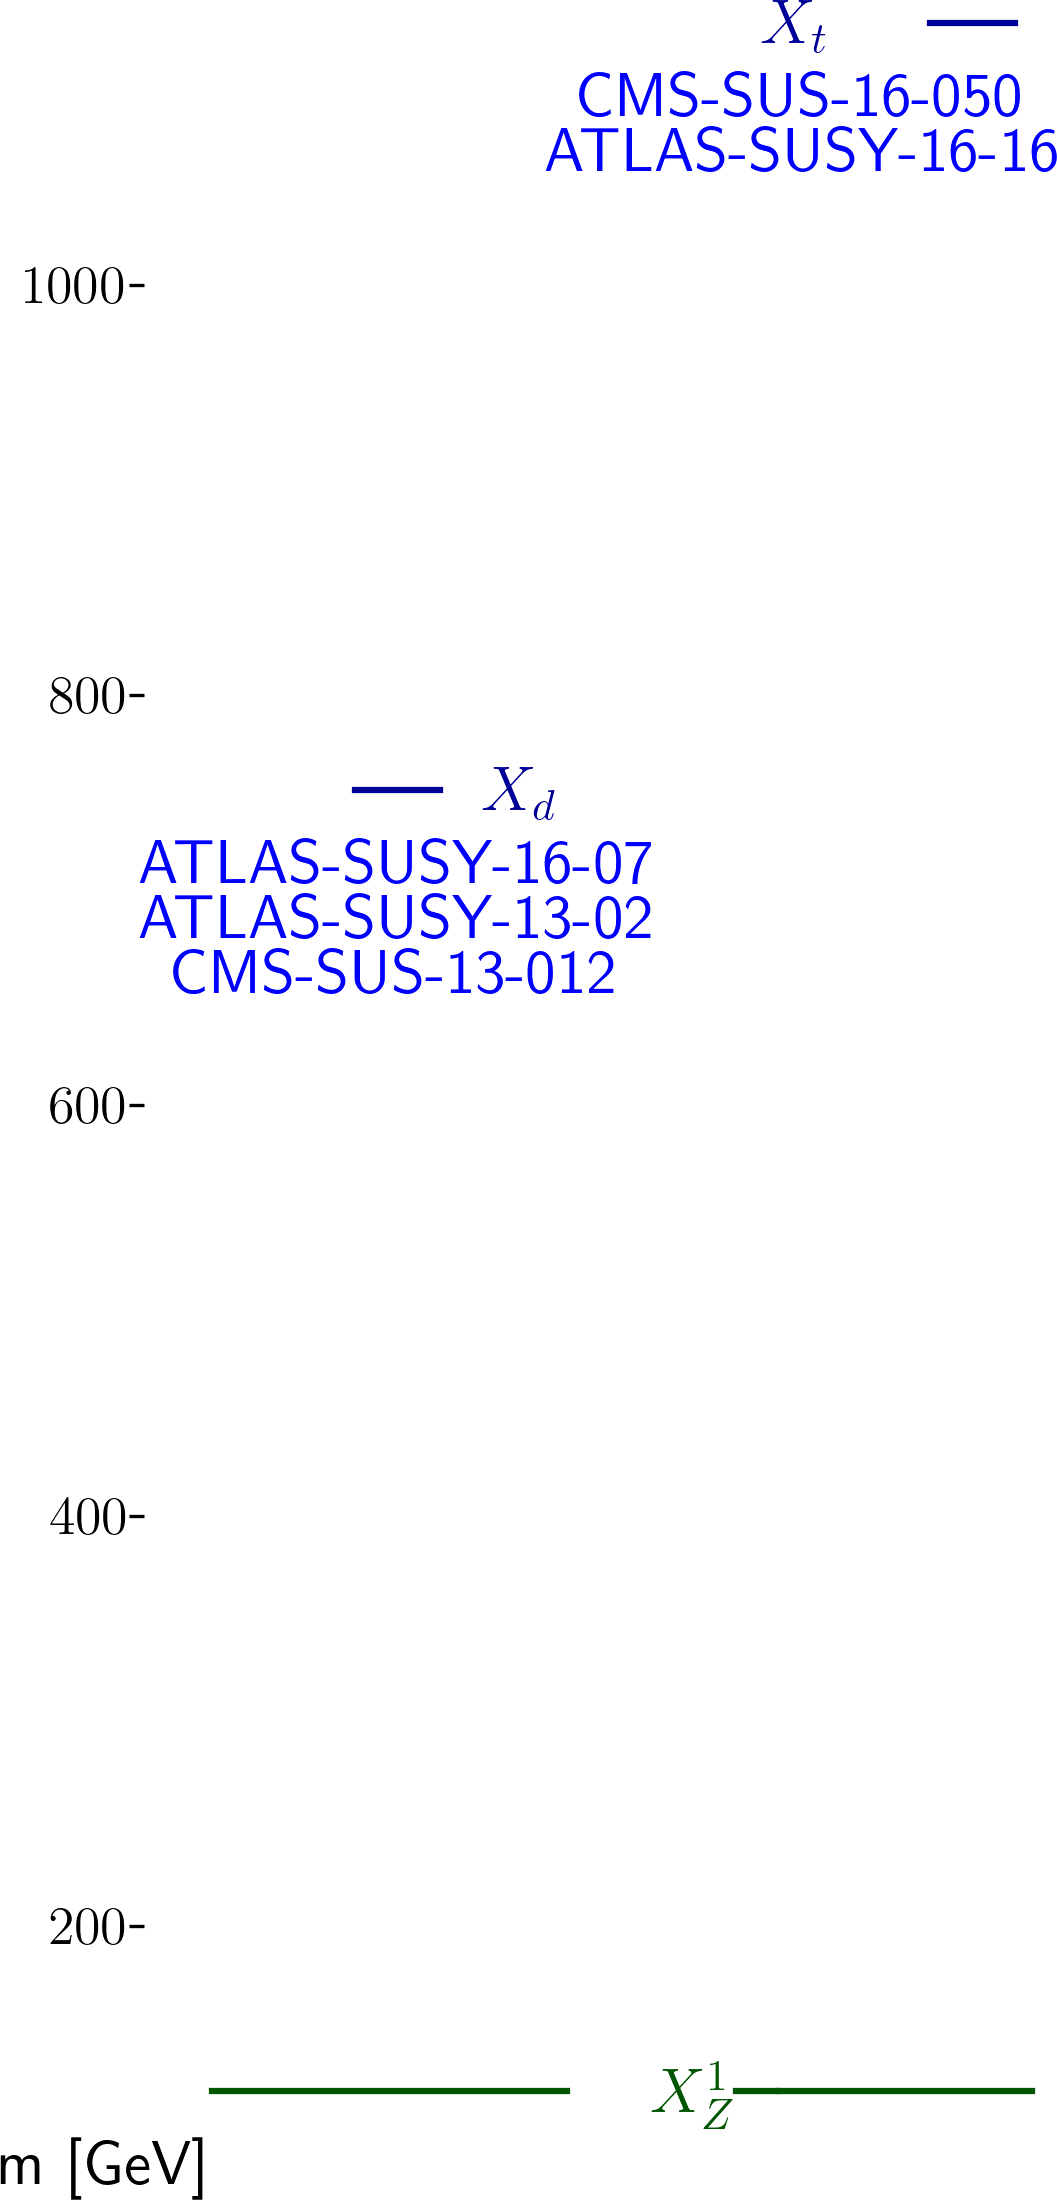
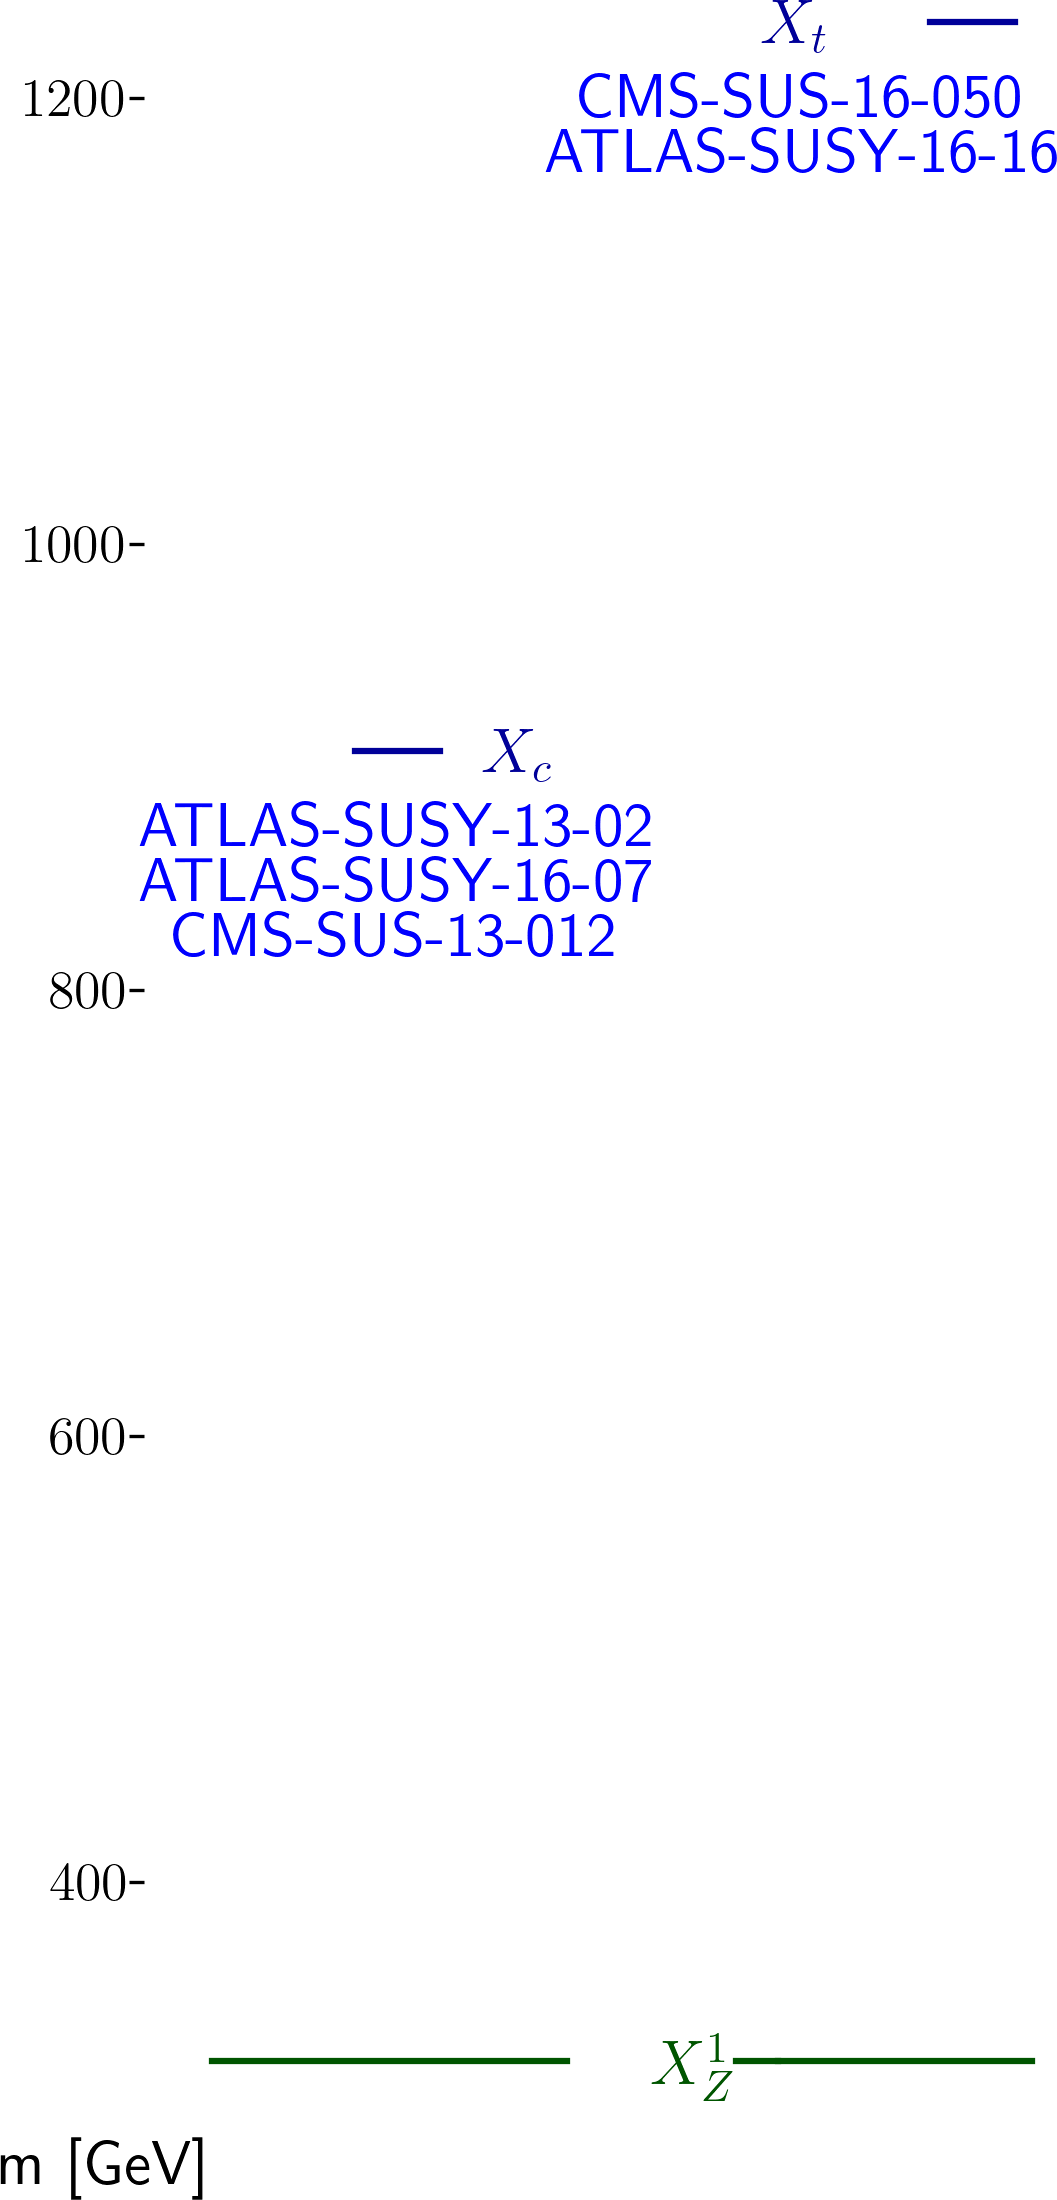
automated update by plotHiscore.py to /scratch-cbe/users/wolfgan.waltenberger/git/smodels.github.io/protomodels

diff --git a/protomodels/2020_PioneerStudy/real7/index.html b/protomodels/2020_PioneerStudy/real7/index.html
@@ -1,30 +1,30 @@
 <html>
 <body>
 <center>
-<table><td><h1>Current best protomodel: K=6.75</h1><td><img height=60px src=https://smodels.github.io/pics/banner.png></table>
+<table><td><h1>Current best protomodel: K=6.58</h1><td><img height=60px src=https://smodels.github.io/pics/banner.png></table>
 </center>
-<b><a href=./hiscore.slha>ProtoModel</a> <a href=./pmodel.py>(dict)</a> produced with <a href=https://smodels.github.io/docs/Validation124>database v1.2.4</a>, combination strategy <a href=./matrix_aggressive.png>aggressive</a> in walker 39 step 370.</b> K plots for: <a href=./M1000022.png?9865726>X<sub>Z</sub><sup>1</sup></a>, <a href=./M1000006.png?9865726>X<sub>t</sub></a>, <a href=./M1000001.png?9865726>X<sub>d</sub></a>. HPD plots for: <a href=./llhd1000006.png?9865726>X<sub>t</sub></a>, <a href=./llhd1000001.png?9865726>X<sub>d</sub></a>. SSM plots for: <a href=./ssm_-1000006_1000006.png?9865726>(x&#772;<sub>t</sub>,X<sub>t</sub>)</a><br>
+<b><a href=./hiscore.slha>ProtoModel</a> <a href=./pmodel.py>(dict)</a> produced with <a href=https://smodels.github.io/docs/Validation????>database v????</a>, combination strategy <a href=./matrix_aggressive.png>aggressive</a> in walker 0 step 710.</b> K plots for: <a href=./M1000022.png?14864950>X<sub>Z</sub><sup>1</sup></a>, <a href=./M1000006.png?14864950>X<sub>t</sub></a>, <a href=./M1000004.png?14864950>X<sub>c</sub></a>. HPD plots for: <a href=./llhd1000006.png?14864950>X<sub>t</sub></a>, <a href=./llhd1000004.png?14864950>X<sub>c</sub></a>. SSM plots for: <a href=./ssm_-1000006_1000006.png?14864950>(x&#772;<sub>t</sub>,X<sub>t</sub>)</a><br>
 <table width=80%>
 <tr><td>
-<br><b>24 predictions available. Highest r values are:</b><br><ul>
-<li><a href=http://cms-results.web.cern.ch/cms-results/public-results/publications/SUS-19-006/index.html>CMS-SUS-19-006</a>:T2 r=1.30, r<sub>exp</sub>=1.13<br>
-<li><a href=http://cms-results.web.cern.ch/cms-results/public-results/publications/SUS-19-006/index.html>CMS-SUS-19-006</a>:T2tt r=1.25, r<sub>exp</sub>=1.21<br>
-<li><a href=http://cms-results.web.cern.ch/cms-results/public-results/publications/SUS-16-033/index.html>CMS-SUS-16-033</a>:T2 r=1.19, r<sub>exp</sub>=0.84<br>
-<li><a href=http://cms-results.web.cern.ch/cms-results/public-results/publications/SUS-16-051/index.html>CMS-SUS-16-051</a>:T2tt r=0.89, r<sub>exp</sub>=0.58<br>
-<li><a href=http://cms-results.web.cern.ch/cms-results/public-results/publications/SUS-16-036/index.html>CMS-SUS-16-036</a>:T2 r=0.87, r<sub>exp</sub>=0.77<br>
+<br><b>19 predictions available. Highest r values are:</b><br><ul>
+<li><a href=http://cms-results.web.cern.ch/cms-results/public-results/publications/SUS-19-006/index.html>CMS-SUS-19-006</a>:T2tt r=1.30, r<sub>exp</sub>=1.28<br>
+<li><a href=http://cms-results.web.cern.ch/cms-results/public-results/publications/SUS-19-006/index.html>CMS-SUS-19-006</a>:T2 r=1.24, r<sub>exp</sub>=1.07<br>
+<li><a href=http://cms-results.web.cern.ch/cms-results/public-results/publications/SUS-16-033/index.html>CMS-SUS-16-033</a>:T2 r=1.01, r<sub>exp</sub>=0.76<br>
+<li><a href=http://cms-results.web.cern.ch/cms-results/public-results/publications/SUS-16-036/index.html>CMS-SUS-16-036</a>:T2 r=0.74, r<sub>exp</sub>=0.74<br>
+<li><a href=https://atlas.web.cern.ch/Atlas/GROUPS/PHYSICS/PAPERS/SUSY-2016-15/>ATLAS-SUSY-2016-15</a>:T2tt r=0.65, r<sub>exp</sub>=N/A<br>
 </ul>
 <td><br><b>K values without analyses: (contribution)</b><br>
 <ul>
-<li> <a href=https://twiki.cern.ch/twiki/bin/view/CMSPublic/PhysicsResultsSUS13012>CMS-SUS-13-012</a>: 3.36 (15%)
-<li> <a href=http://cms-results.web.cern.ch/cms-results/public-results/publications/SUS-16-050/index.html>CMS-SUS-16-050</a>: 3.36 (15%)
-<li> <a href=https://atlas.web.cern.ch/Atlas/GROUPS/PHYSICS/PAPERS/SUSY-2013-02/>ATLAS-SUSY-2013-02</a>: 3.28 (15%)
-<li> <a href=https://atlas.web.cern.ch/Atlas/GROUPS/PHYSICS/PAPERS/SUSY-2016-16/>ATLAS-SUSY-2016-16</a>: 1.21 (24%)
-<li> <a href=https://atlas.web.cern.ch/Atlas/GROUPS/PHYSICS/PAPERS/SUSY-2016-07/>ATLAS-SUSY-2016-07</a>: -0.80 (32%)
-<td><img width=600px src=./texdoc.png?1602865726>
-<br><font size=-1>Last updated: Fri Oct 16 18:28:46 2020</font>
+<li> <a href=http://cms-results.web.cern.ch/cms-results/public-results/publications/SUS-16-050/index.html>CMS-SUS-16-050</a>: 3.27 (15%)
+<li> <a href=https://twiki.cern.ch/twiki/bin/view/CMSPublic/PhysicsResultsSUS13012>CMS-SUS-13-012</a>: 3.27 (15%)
+<li> <a href=https://atlas.web.cern.ch/Atlas/GROUPS/PHYSICS/PAPERS/SUSY-2013-02/>ATLAS-SUSY-2013-02</a>: 3.22 (15%)
+<li> <a href=https://atlas.web.cern.ch/Atlas/GROUPS/PHYSICS/PAPERS/SUSY-2016-16/>ATLAS-SUSY-2016-16</a>: 1.17 (24%)
+<li> <a href=https://atlas.web.cern.ch/Atlas/GROUPS/PHYSICS/PAPERS/SUSY-2016-07/>ATLAS-SUSY-2016-07</a>: -0.82 (32%)
+<td><img width=600px src=./texdoc.png?1607864950>
+<br><font size=-1>Last updated: Sun Dec 13 14:09:10 2020</font>
 </table><table style="width:80%">
-<td width=45%><img height=580px src=./ruler.png?1602865726><td width=55%><img height=380px src=./decays.png?1602865726>
-<font size=-3><iframe type="text/html" height="220px" width="100%s" frameborder="0" src="./rawnumbers.html?1602865726"></iframe></font>
+<td width=45%><img height=580px src=./ruler.png?1607864950><td width=55%><img height=380px src=./decays.png?1607864950>
+<font size=-3><iframe type="text/html" height="220px" width="100%s" frameborder="0" src="./rawnumbers.html?1607864950"></iframe></font>
 </table>
 </body>
 </html>

diff --git a/protomodels/2020_PioneerStudy/real7/rawnumbers.html b/protomodels/2020_PioneerStudy/real7/rawnumbers.html
@@ -1,9 +1,9 @@
 <table>
 <tr><th>Analysis Name</th><th>Type</th><th>Dataset</th><th>Topos</th><th>Observed</th><th>Expected</th><th>Approx &sigma;</th><th>Particles</th>
 </tr>
-<tr><td><a href=https://atlas.web.cern.ch/Atlas/GROUPS/PHYSICS/PAPERS/SUSY-2013-02/>ATLAS-SUSY-2013-02</a></td><td>em</td> <td>SR6jtp</td><td>T2</td><td>6</td><td>4.9 +/- 1.6</td><td style="text-align:right">0.4 &sigma;</td><td style="text-align:right">X<sub>d</sub></td></tr>
-<tr><td><a href=https://atlas.web.cern.ch/Atlas/GROUPS/PHYSICS/PAPERS/SUSY-2016-07/>ATLAS-SUSY-2016-07</a></td><td>em</td> <td>2j_Meff_1200</td><td>T2</td><td>611</td><td>526 +/- 31</td><td style="text-align:right">2.2 &sigma;</td><td style="text-align:right">X<sub>d</sub></td></tr>
+<tr><td><a href=https://atlas.web.cern.ch/Atlas/GROUPS/PHYSICS/PAPERS/SUSY-2013-02/>ATLAS-SUSY-2013-02</a></td><td>em</td> <td>SR6jtp</td><td>T2</td><td>6</td><td>4.9 +/- 1.6</td><td style="text-align:right">0.4 &sigma;</td><td style="text-align:right">X<sub>c</sub></td></tr>
+<tr><td><a href=https://atlas.web.cern.ch/Atlas/GROUPS/PHYSICS/PAPERS/SUSY-2016-07/>ATLAS-SUSY-2016-07</a></td><td>em</td> <td>2j_Meff_1200</td><td>T2</td><td>611</td><td>526 +/- 31</td><td style="text-align:right">2.2 &sigma;</td><td style="text-align:right">X<sub>c</sub></td></tr>
 <tr><td><a href=https://atlas.web.cern.ch/Atlas/GROUPS/PHYSICS/PAPERS/SUSY-2016-16/>ATLAS-SUSY-2016-16</a></td><td>em</td> <td>tN_high</td><td>T2tt</td><td>8</td><td>3.8 +/- 1</td><td style="text-align:right">1.9 &sigma;</td><td style="text-align:right">X<sub>t</sub></td></tr>
-<tr><td><a href=https://twiki.cern.ch/twiki/bin/view/CMSPublic/PhysicsResultsSUS13012>CMS-SUS-13-012</a></td><td>ul</td> <td>-</td><td>T2</td><td> 26.4 fb </td><td> 16.6 fb</td><td style="text-align:right">1.2 &sigma;</td><td style="text-align:right">X<sub>d</sub></td></tr>
-<tr><td><a href=http://cms-results.web.cern.ch/cms-results/public-results/publications/SUS-16-050/index.html>CMS-SUS-16-050</a></td><td>ul</td> <td>-</td><td>T2tt</td><td> 4.8 fb </td><td> 2.7 fb</td><td style="text-align:right">1.6 &sigma;</td><td style="text-align:right">X<sub>t</sub></td></tr>
+<tr><td><a href=https://twiki.cern.ch/twiki/bin/view/CMSPublic/PhysicsResultsSUS13012>CMS-SUS-13-012</a></td><td>ul</td> <td>-</td><td>T2</td><td> 19.2 fb </td><td> 11.6 fb</td><td style="text-align:right">1.3 &sigma;</td><td style="text-align:right">X<sub>c</sub></td></tr>
+<tr><td><a href=http://cms-results.web.cern.ch/cms-results/public-results/publications/SUS-16-050/index.html>CMS-SUS-16-050</a></td><td>ul</td> <td>-</td><td>T2tt</td><td> 4.7 fb </td><td> 2.7 fb</td><td style="text-align:right">1.5 &sigma;</td><td style="text-align:right">X<sub>t</sub></td></tr>
 </table>

diff --git a/protomodels/2020_PioneerStudy/real7/pmodel.py b/protomodels/2020_PioneerStudy/real7/pmodel.py
@@ -1,1 +1,1 @@
-{'masses': {1000022: 109.495, 1000001: 743.583, 1000006: 1117.577}, 'ssmultipliers': {(1000022, 1000022): 0.108, (1000001, 1000001): 0.453, (-1000001, 1000001): 0.453, (-1000001, -1000001): 0.453, (1000001, 1000022): 0.453, (-1000001, 1000022): 0.453, (1000006, 1000006): 0.997, (-1000006, 1000006): 0.997, (-1000006, -1000006): 0.997, (1000006, 1000022): 0.997, (-1000006, 1000022): 0.997, (1000001, 1000006): 0.997, (-1000006, 1000001): 0.997, (-1000001, 1000006): 0.997, (-1000006, -1000001): 0.997}, 'decays': {1000022: {}, 1000001: {(1000022, 1): 1.0}, 1000006: {(1000022, 6): 1.0}}, 'timestamp': 'Fri Oct 16 18:28:12 2020', 'Z': 3.209, 'K': 6.751, 'walkerid': 39, 'step': 370, 'codever': '1.0', 'dbver': '1.2.4'}
+{'masses': {1000022: 309.776, 1000006: 1224.189, 1000004: 897.417}, 'ssmultipliers': {(1000022, 1000022): 34.874, (1000006, 1000006): 2.008, (-1000006, 1000006): 1.886, (-1000006, -1000006): 1.886, (1000006, 1000022): 1.886, (-1000006, 1000022): 1.886, (1000004, 1000004): 1.04, (-1000004, 1000004): 1.04, (-1000004, -1000004): 1.04, (1000004, 1000022): 1.04, (-1000004, 1000022): 1.04, (1000004, 1000006): 1.04, (-1000004, 1000006): 1.04, (-1000006, 1000004): 1.04, (-1000006, -1000004): 1.04}, 'decays': {1000022: {}, 1000006: {(1000022, 6): 1.0}, 1000004: {(1000022, 4): 1.0}}, 'timestamp': 'Sun Dec 13 14:09:01 2020', 'Z': 3.183, 'K': 6.581, 'walkerid': 0, 'step': 710, 'codever': '1.0', 'dbver': '????'}
